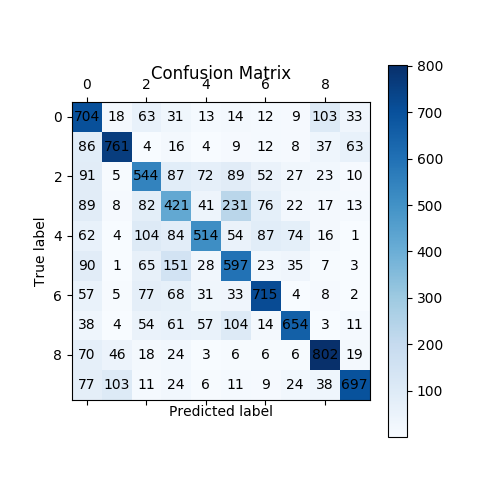
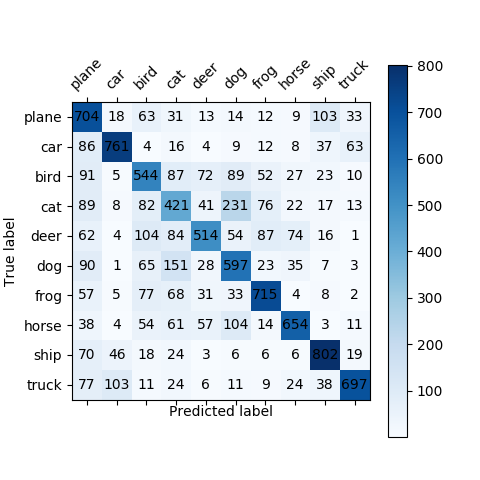
feat: update test results

diff --git a/src/analysis.py b/src/analysis.py
@@ -139,7 +139,8 @@ def show_confusion_matrix(task_id):
 
     plt.ylabel('True label')
     plt.xlabel('Predicted label')
-    plt.title('Confusion Matrix')
+    plt.xticks(range(0, 10), list(classes), rotation=45)
+    plt.yticks(range(0, 10), list(classes))
     plt.draw()
     plt.show()
 

diff --git a/README.md b/README.md
@@ -72,7 +72,7 @@ After that you can use src/analysis.py to obtain some useful figures.
 
 2. As the epoch of train increase, the loss on training set and Acc on test set as follows:
 
-   <img src="img/epoch.png" alt="failed to load image">
+   <img src="img/epoches.png" alt="failed to load image">
 
 3. Changing learning rate in training process, the final test result(Acc) on test set as follows:
 
